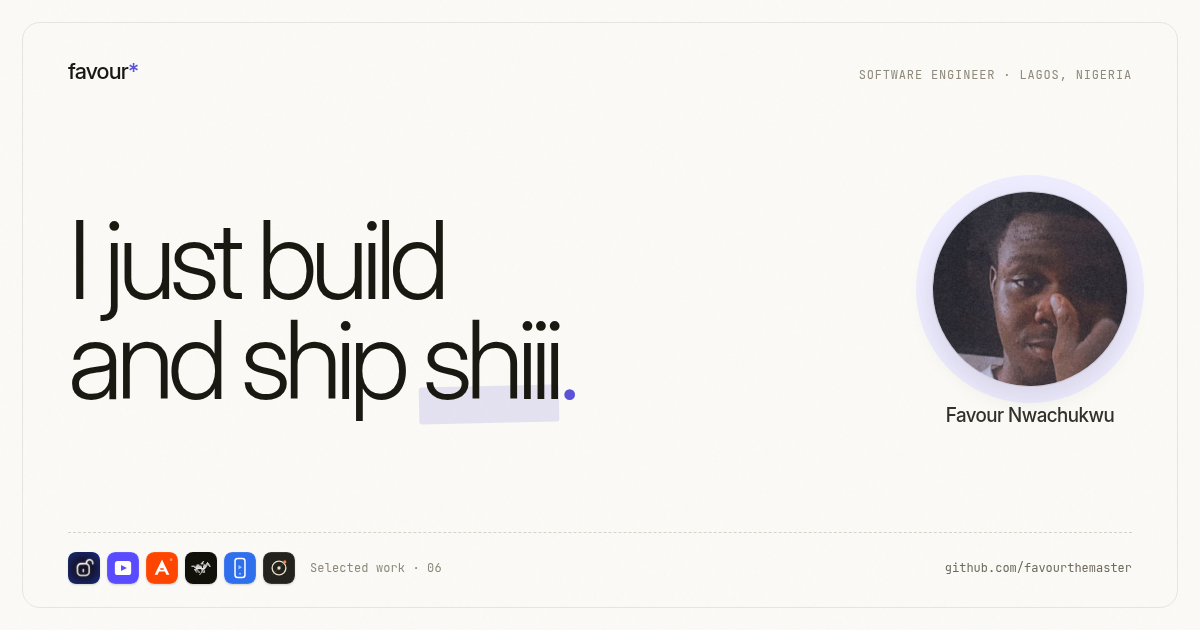
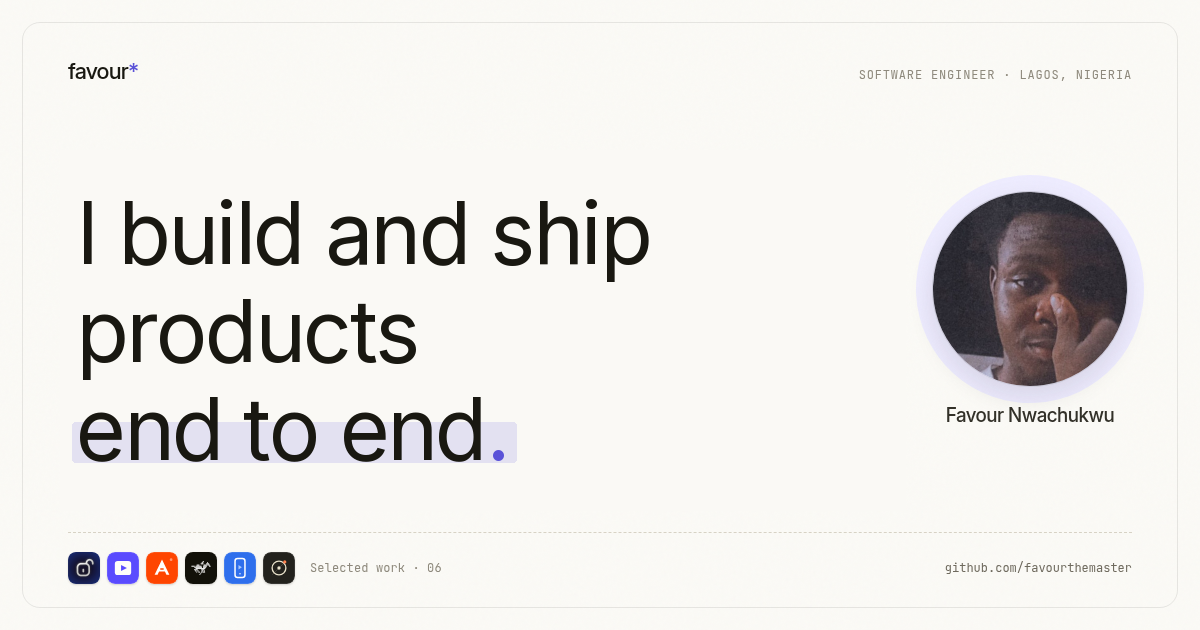
feat(copy): update headline to 'I build and ship products end to end' and refresh OG card

Changed region(s): [[0.0617, 0.3016, 0.555, 0.754]]

diff --git a/src/pages/Home.tsx b/src/pages/Home.tsx
@@ -41,7 +41,7 @@ export function Home() {
             <img className="avatar" src="/avatar.jpg" alt="" width="460" height="460" />
           </p>
           <p className="hero-line">
-            I just build and ship shiii
+            I build and ship products end to end
             <span className="cluster">
               {heroProjects.map((project, index) => {
                 const [rotate, lift, z] = clusterRotations[index % clusterRotations.length]

diff --git a/src/pages/About.tsx b/src/pages/About.tsx
@@ -41,7 +41,7 @@ export function About() {
         <header className="page-head wrap">
           <span className="section-label">About</span>
           <h1 className="page-title" style={{ marginTop: 16 }}>
-            I just build and ship shiii.
+            I build and ship products end to end.
           </h1>
         </header>
 
